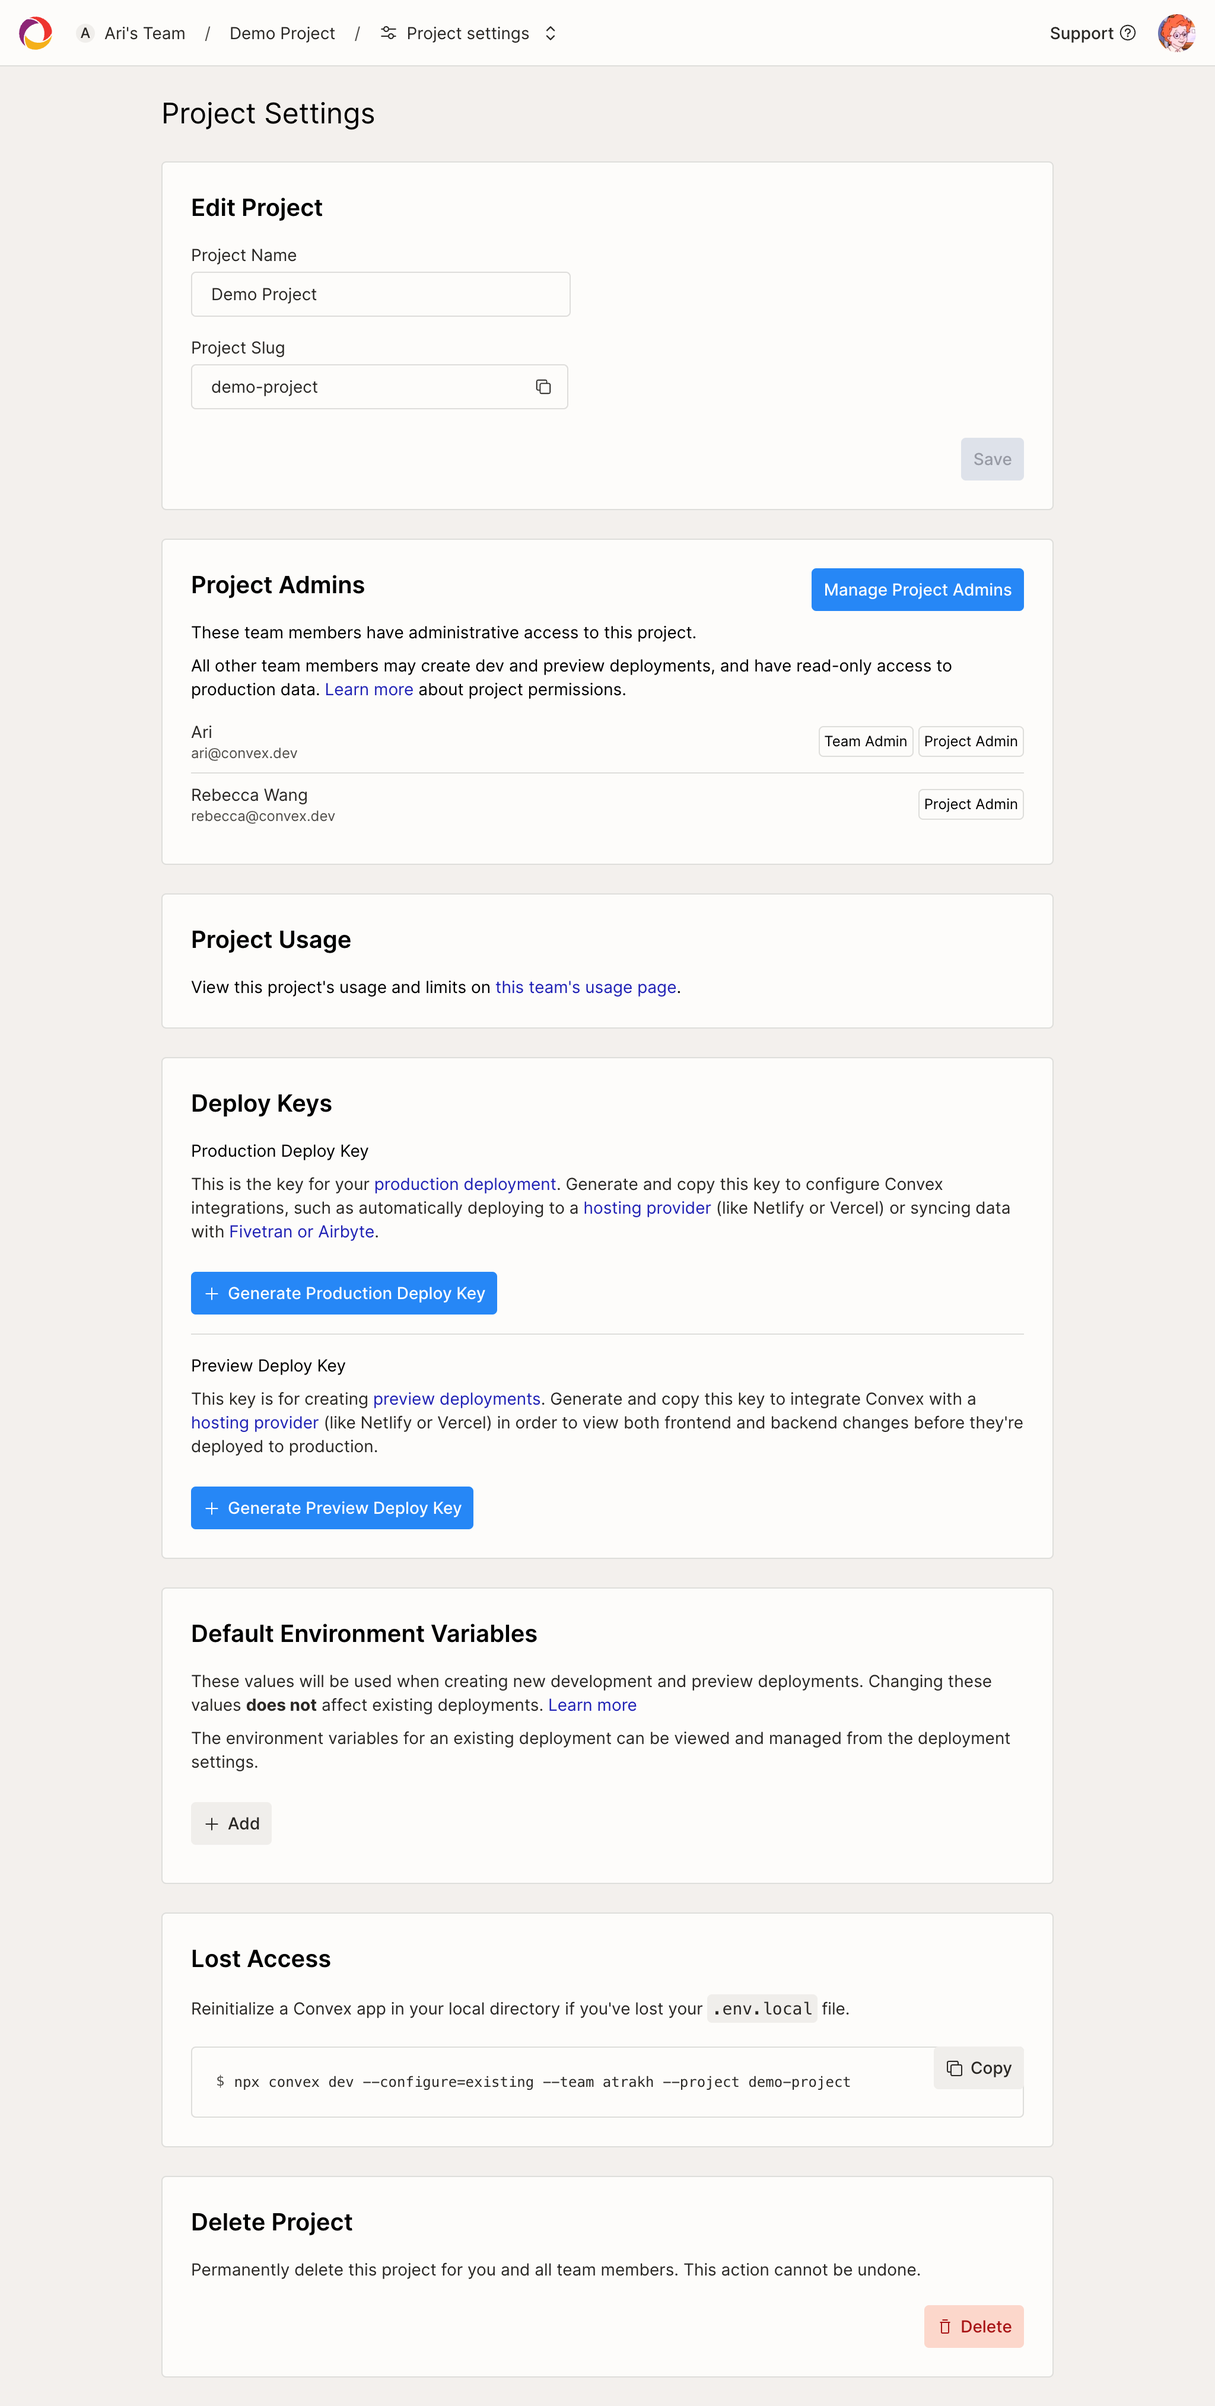
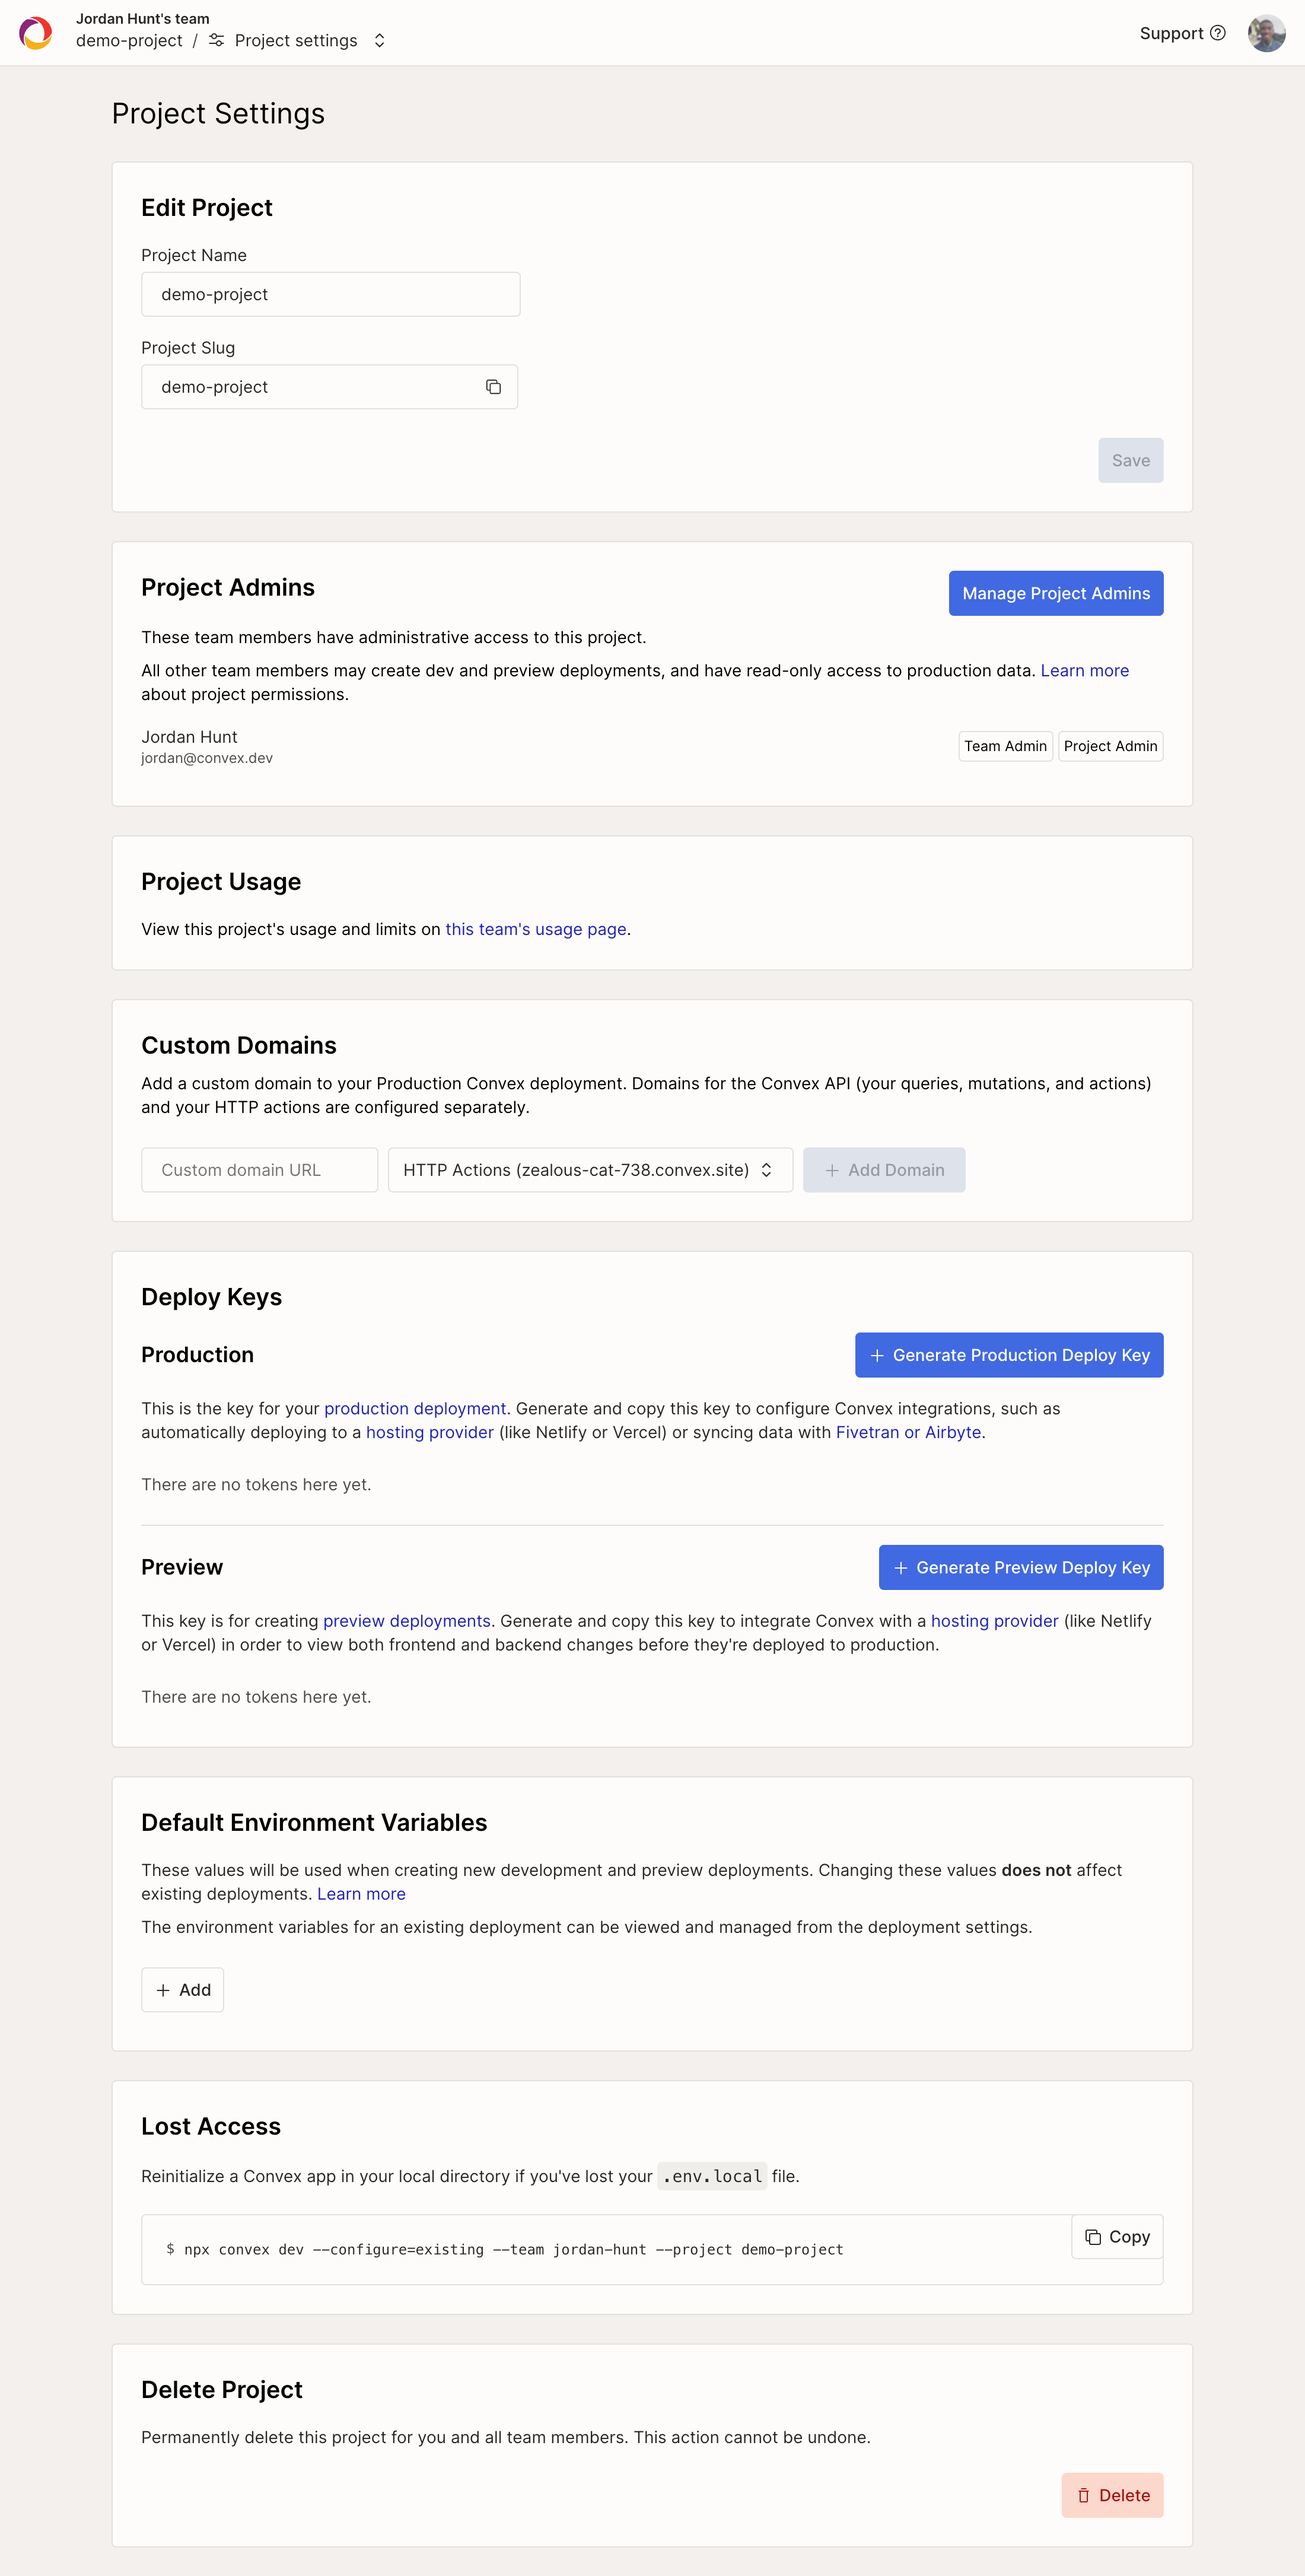
Update
GitOrigin-RevId: c66b007baca50e7b3d2bfc679ccc9321ddcb2d60

diff --git a/docs/dashboard/projects.md b/docs/dashboard/projects.md
@@ -34,6 +34,8 @@ you can:
   more details.
 - View the amount of [usage metrics](/docs/dashboard/teams.md#usage) your
   project has consumed.
+- Add [custom domains](/docs/production/hosting/custom.mdx#domains) for your
+  production deployment
 - Generate deploy keys for your production and preview deployments.
 - Create and edit
   [default environment variables](/docs/production/environment-variables.mdx#project-environment-variable-defaults).
